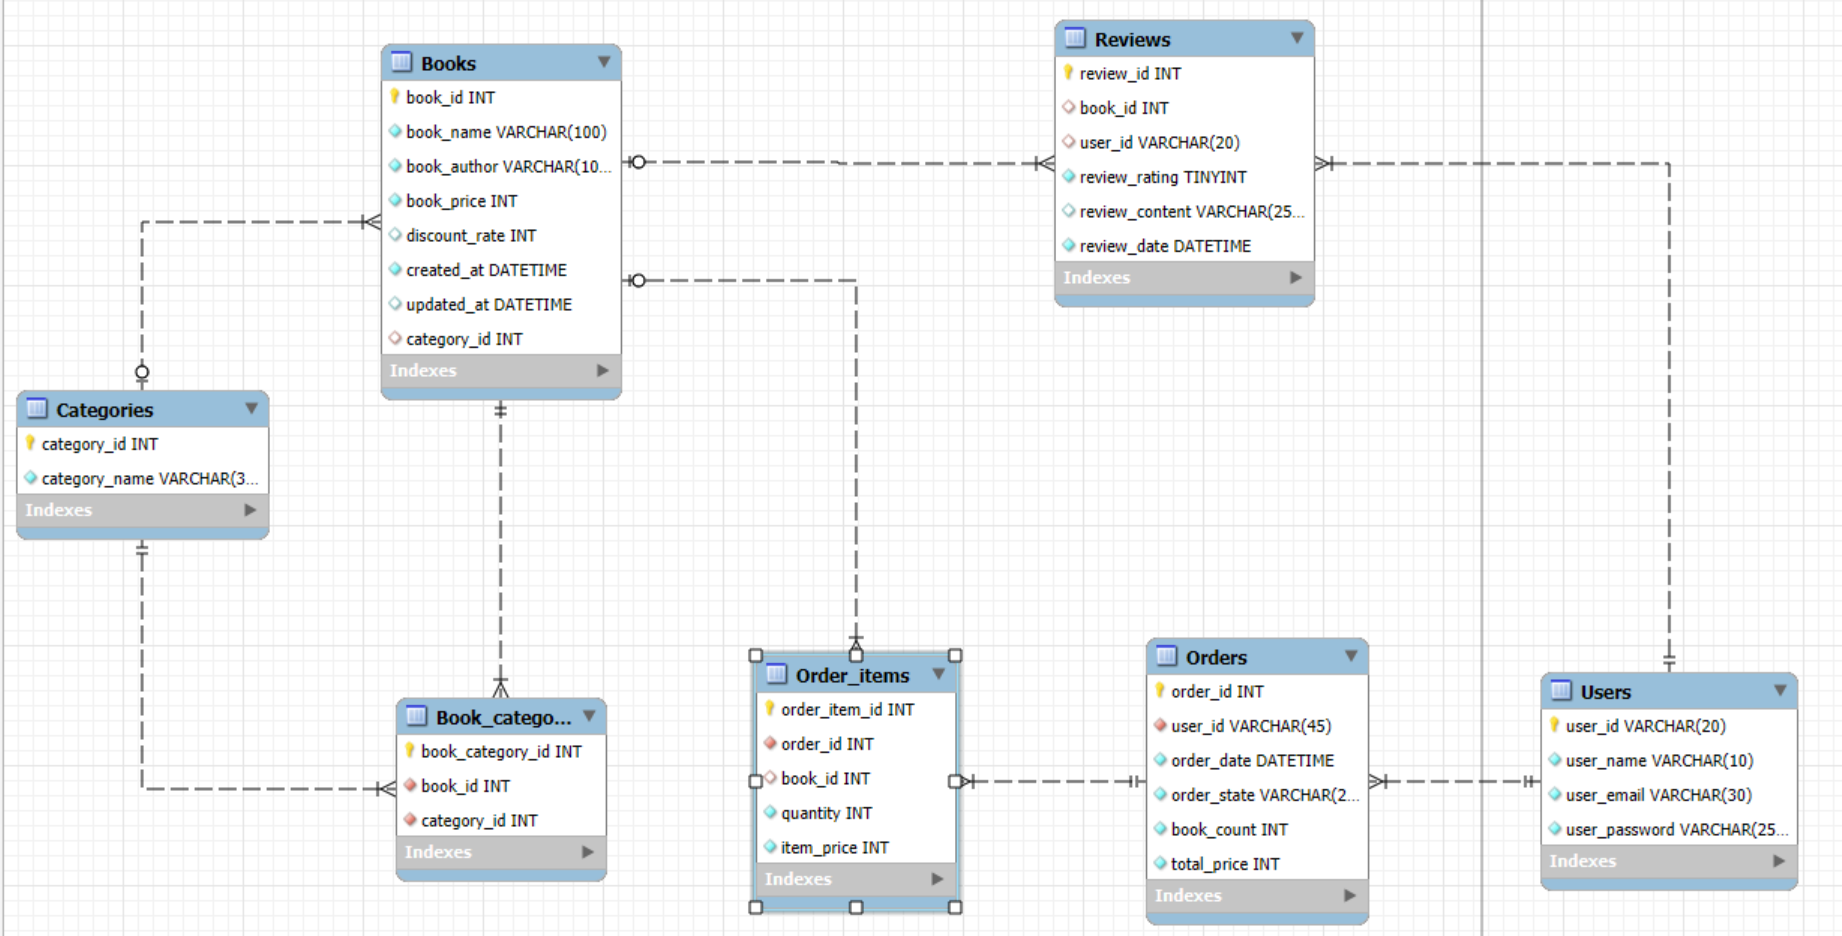
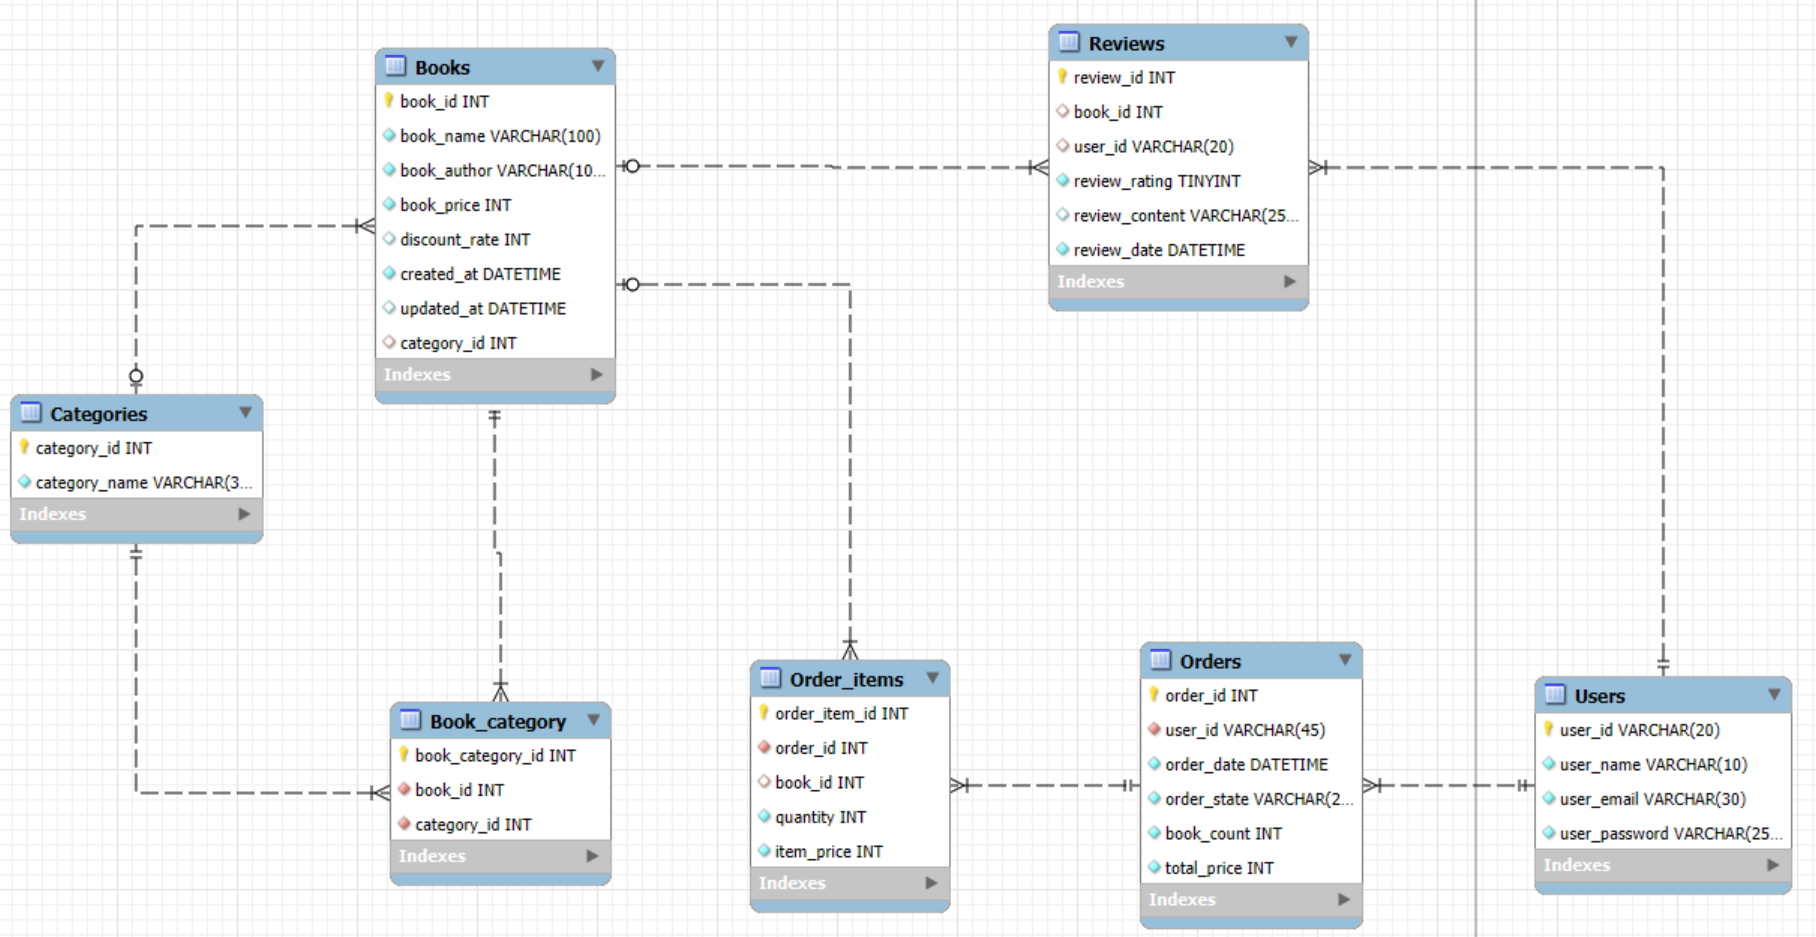
2024.11.03. 09:39 erd update

diff --git a/README.md b/README.md
@@ -22,11 +22,12 @@
 ## 📊 데이터베이스 설계 (ERD)
 - <strong>Users</strong>: 사용자 정보 저장
 - <strong>Books</strong>: 책 정보 저장
+- <strong>Books_category</strong>: 책과 카테고리 매핑 정보 저장
 - <strong>Categories</strong>: 책 카테고리
 - <strong>Orders</strong>: 주문 정보 관리
 - <strong>Order_items</strong>: 주문 상품 목록 관리
 - <strong>Reviews</strong>: 리뷰 정보 관리
-<img src="./Bookstore/bookstoreERD.png" />
+<img src="./Bookstore/BookstoreERD.png" />
 
 ## 🪩 API 명세서
 ### DOMAIN : http://localhost:4000
